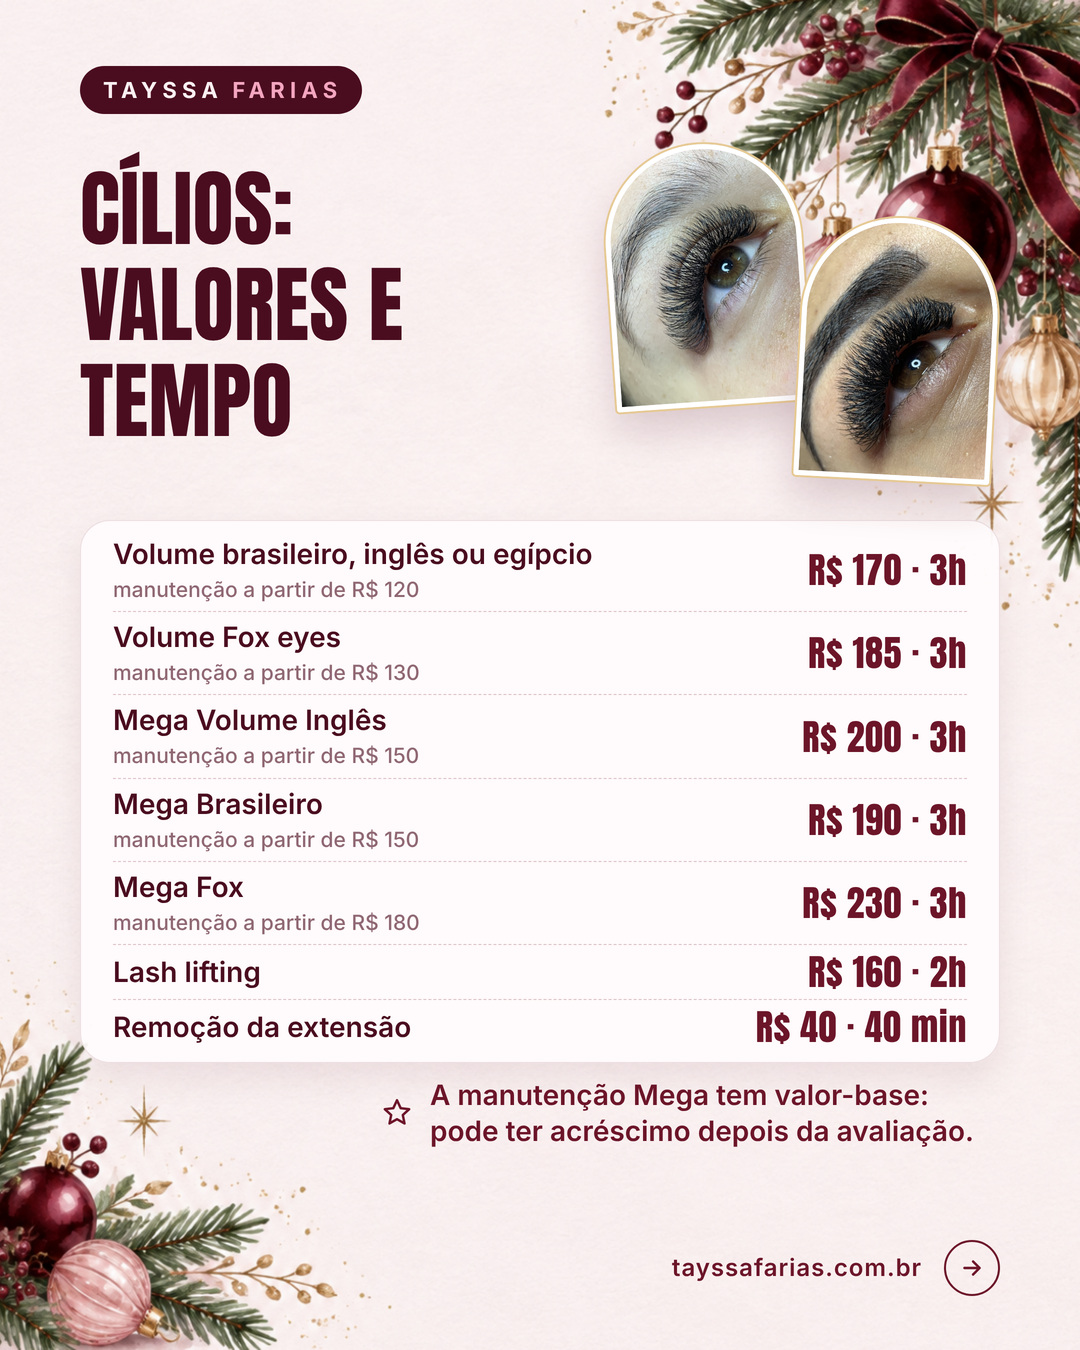
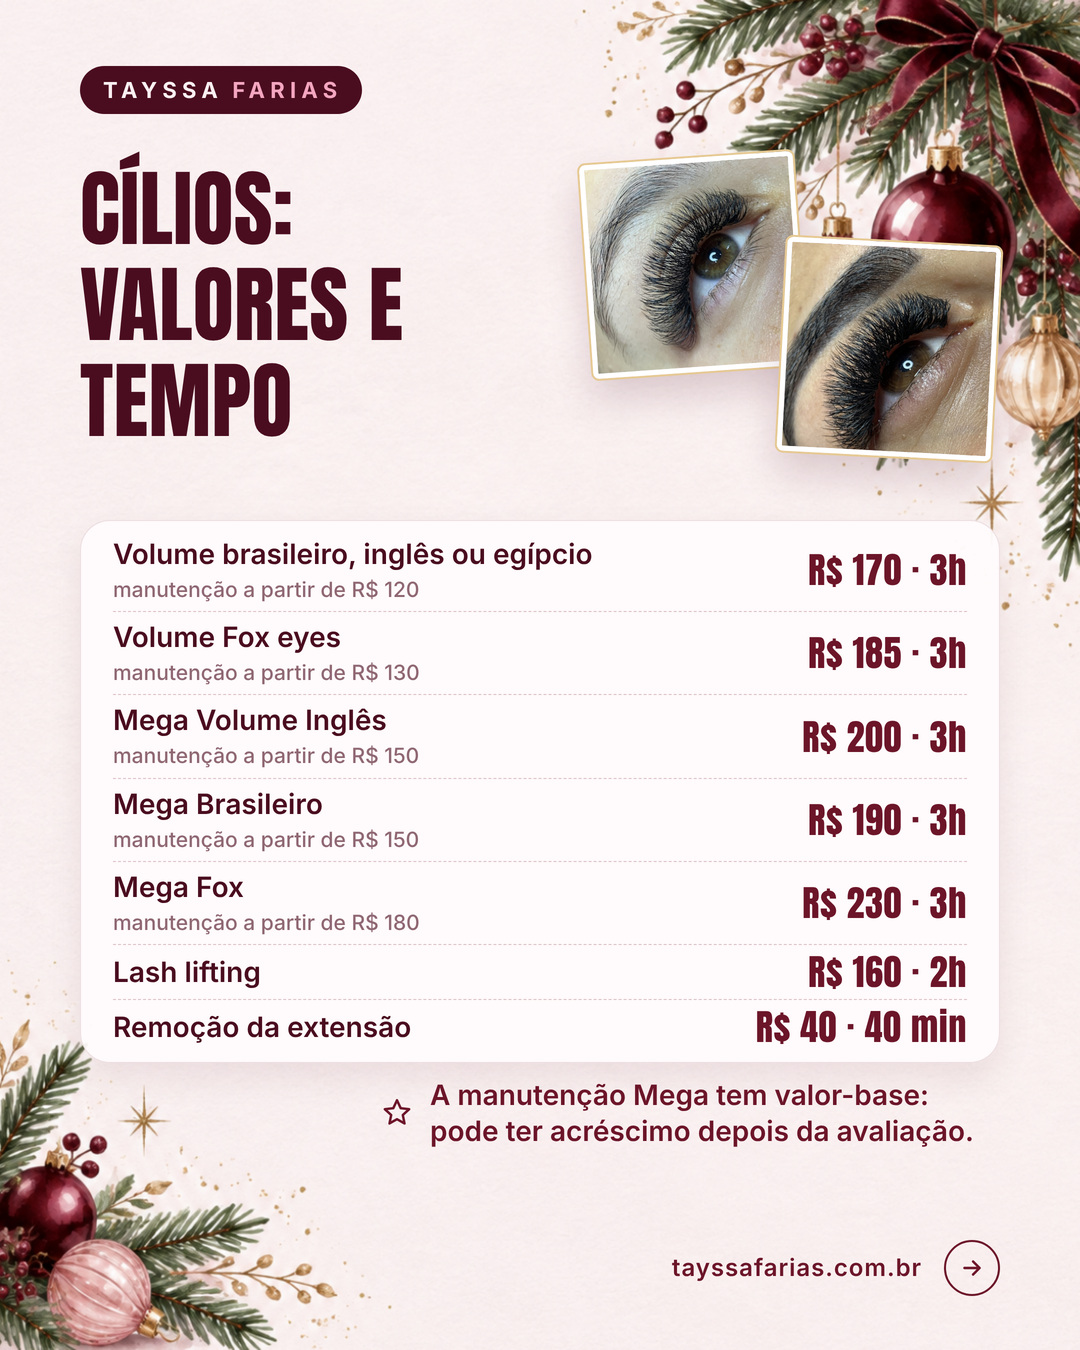
Tayssa: fotos do carrossel do site em moldura quadrada
Claude-Session: https://claude.ai/code/session_01C7Fqj9QNbeqjAG4x5LcgP7

Changed region(s): [[0.5194, 0.0933, 0.9472, 0.3733]]

diff --git a/docs/tayssa/carrossel-natal/gerador/style.css b/docs/tayssa/carrossel-natal/gerador/style.css
@@ -249,3 +249,11 @@ main { justify-content: flex-start; padding: 0; }
 .precos--cilios li { padding: 9px 0 !important; }
 .interna:has(.precos--cilios) .nota--curta { margin-top: 14px; }
 .arco--par img, .arco--vip img { object-position: 50% 50%; }
+/* fotos em quadrado, no lugar do arco */
+.arco { border-radius: 6px; }
+.arco--par { width: 214px; height: 214px; }
+.arco--p1 { right: 200px; top: 60px; }
+.arco--p2 { right: 4px; top: 150px; }
+.interna:has(.precos--cilios) .arco--p1 { top: 44px; }
+.interna:has(.precos--cilios) .arco--p2 { top: 128px; }
+.arco--vip { width: 260px; height: 260px; top: 24px; }
